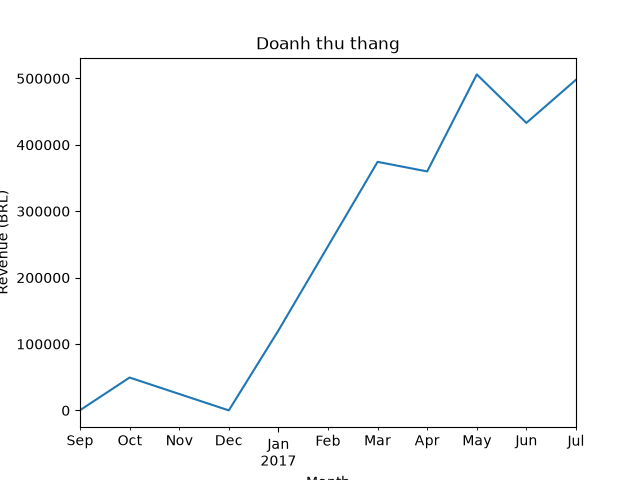
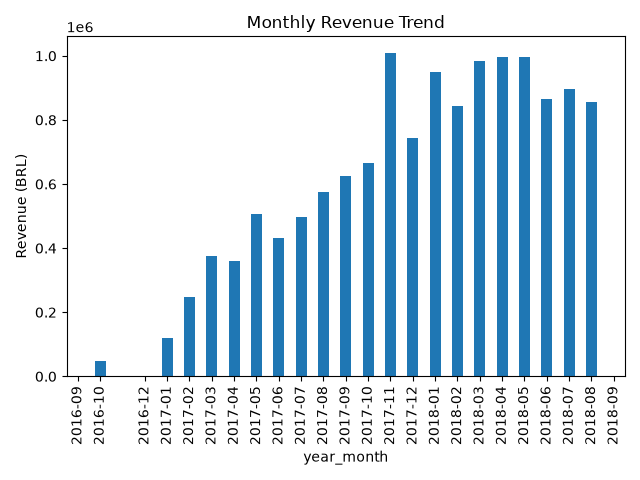
feat(week4): day5 - refactor ETL into modular project structure

diff --git a/week_4/week4_olist/src/transform.py b/week_4/week4_olist/src/transform.py
@@ -1,0 +1,31 @@
+import pandas as pd
+
+def clean_orders(df:pd.DataFrame) -> pd.DataFrame:
+    datetime_cols = [
+    'order_purchase_timestamp',
+    'order_approved_at', 
+    'order_delivered_carrier_date',
+    'order_delivered_customer_date',
+    'order_estimated_delivery_date'
+]
+    df = df.copy()
+    for x in datetime_cols:
+        df[x]=pd.to_datetime(df[x])
+    df = df.drop_duplicates()
+
+    return df
+
+def build_sales(orders: pd.DataFrame, order_items: pd.DataFrame, 
+                products: pd.DataFrame, categories: pd.DataFrame) -> pd.DataFrame:
+    sales = (
+        orders
+        .merge(order_items, on='order_id')
+        .merge(products, on='product_id')
+        .merge(categories, on='product_category_name', how='left')
+    )
+    sales['year_month'] = sales['order_purchase_timestamp'].dt.to_period('M')
+    return sales
+def revenue_by_category(sales: pd.DataFrame) -> pd.DataFrame:
+    return sales.groupby(['product_category_name_english'])['price'].agg(['sum','mean','count']).sort_values('sum',ascending=False)
+def revenue_by_month(sales: pd.DataFrame) -> pd.Series:
+    return sales.groupby('year_month')['price'].sum()

diff --git a/week_4/week4_olist/main.py b/week_4/week4_olist/main.py
@@ -1,0 +1,19 @@
+from src.extract import load_orders, load_order_items, load_products, load_categories
+from src.transform import clean_orders, build_sales, revenue_by_category,revenue_by_month
+from src.report import save_csv, plot_chart
+
+def main():
+    orders=load_orders()
+    order_items=load_order_items()
+    products=load_products()
+    categories=load_categories()
+    orders=clean_orders(orders)
+    sales= build_sales(orders,order_items,products,categories)
+    revenueByCategory= revenue_by_category(sales)
+    save_csv(revenueByCategory,'output/output.csv')
+    plot_chart(revenue_by_month(sales),'Monthly Revenue Trend', 'output/monthly_revenue_trend.png','line')
+    plot_chart(revenue_by_month(sales),'Monthly Revenue Trend', 'output/monthly_revenue_trend.png','bar')
+
+
+if __name__ == '__main__':
+    main()

diff --git a/week_4/week4_olist/src/report.py b/week_4/week4_olist/src/report.py
@@ -1,0 +1,14 @@
+import pandas as pd
+import matplotlib.pyplot as plt
+
+def save_csv(df:pd.DataFrame, filepath:str)-> None:
+    df.to_csv(filepath)
+def plot_chart(data: pd.Series, title: str, filepath: str, kind: str = 'bar') -> None:
+    kwargs = {'kind': kind, 'title': title}
+    if kind == 'line':
+        kwargs['marker'] = 'o'
+    data.plot(**kwargs)
+    plt.ylabel('Revenue (BRL)')
+    plt.tight_layout()
+    plt.savefig(filepath)
+    plt.close()

diff --git a/week_4/week4_olist/src/extract.py b/week_4/week4_olist/src/extract.py
@@ -1,0 +1,10 @@
+import pandas as pd
+
+def load_orders() -> pd.DataFrame:
+    return pd.read_csv('data/raw/olist_orders_dataset.csv')
+def load_order_items() -> pd.DataFrame:
+    return pd.read_csv('data/raw/olist_order_items_dataset.csv')
+def load_products() -> pd.DataFrame:
+    return pd.read_csv('data/raw/olist_products_dataset.csv')
+def load_categories() -> pd.DataFrame:
+    return pd.read_csv('data/raw/product_category_name_translation.csv')
